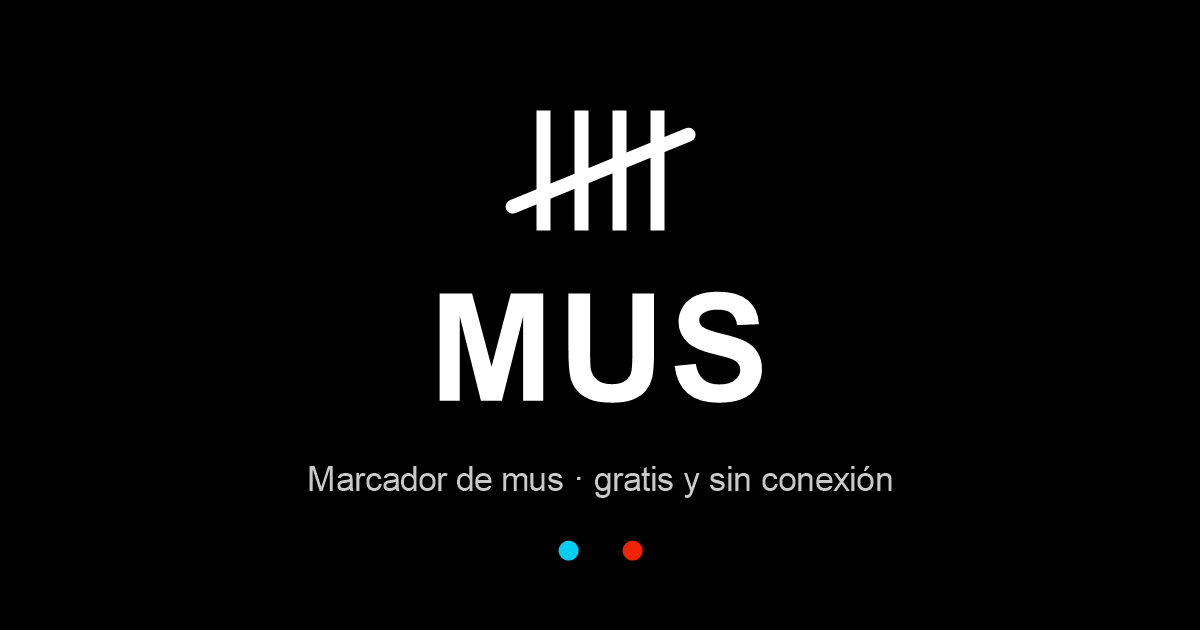
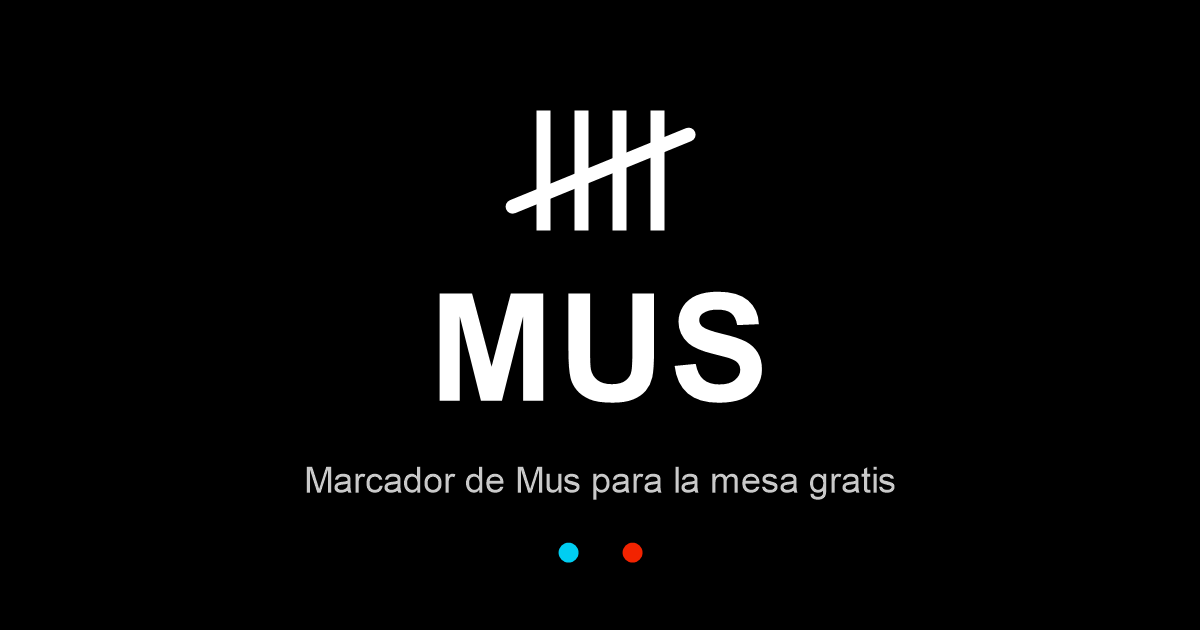
Cambia el texto de la tarjeta social a 'Marcador de Mus para la mesa gratis'
Actualiza og:description y twitter:description, y regenera og.png con el nuevo
texto.

Changed region(s): [[0.2467, 0.7238, 0.7708, 0.7841]]

diff --git a/index.html b/index.html
@@ -10,7 +10,7 @@
   <meta property="og:type" content="website" />
   <meta property="og:site_name" content="Mus · Contador" />
   <meta property="og:title" content="Mus · Contador" />
-  <meta property="og:description" content="Marcador de mus para la mesa. Gratis, se instala y funciona sin conexión." />
+  <meta property="og:description" content="Marcador de Mus para la mesa gratis" />
   <meta property="og:url" content="https://mus-contador.vercel.app/" />
   <meta property="og:image" content="https://mus-contador.vercel.app/og.png" />
   <meta property="og:image:width" content="1200" />
@@ -18,7 +18,7 @@
   <meta property="og:locale" content="es_ES" />
   <meta name="twitter:card" content="summary_large_image" />
   <meta name="twitter:title" content="Mus · Contador" />
-  <meta name="twitter:description" content="Marcador de mus para la mesa. Gratis, se instala y funciona sin conexión." />
+  <meta name="twitter:description" content="Marcador de Mus para la mesa gratis" />
   <meta name="twitter:image" content="https://mus-contador.vercel.app/og.png" />
 
   <link rel="manifest" href="./manifest.webmanifest" />
